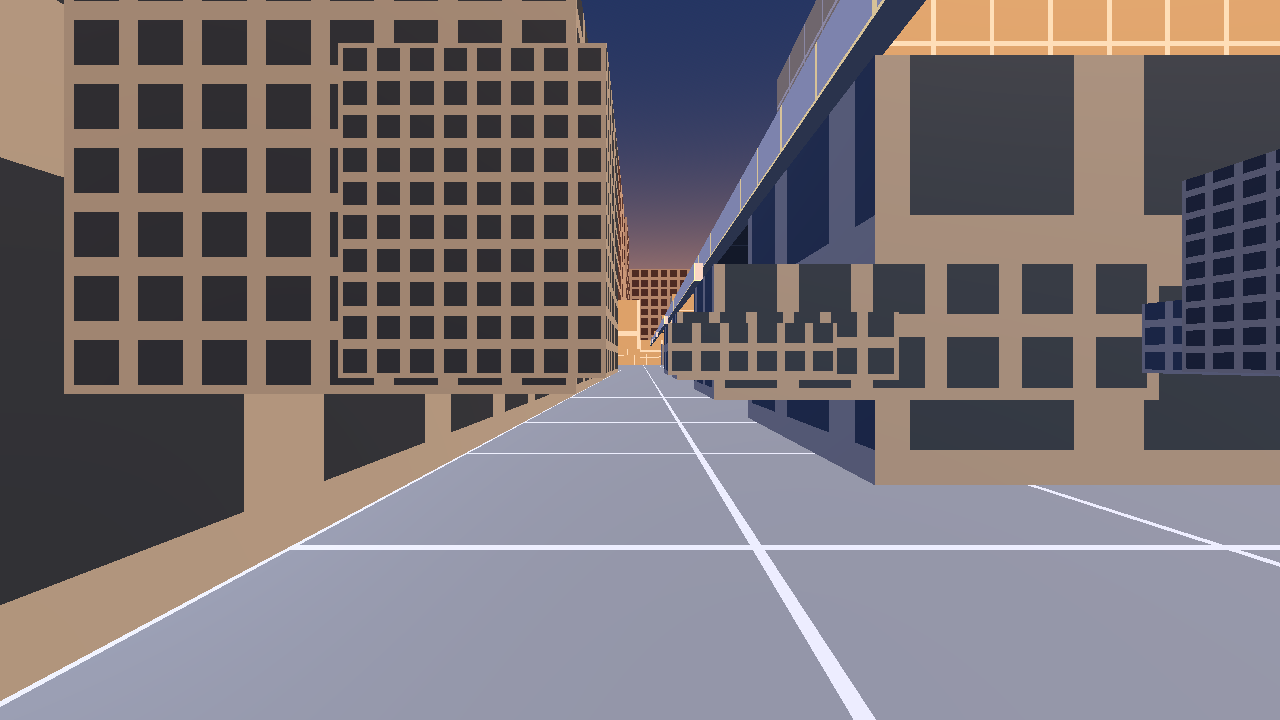
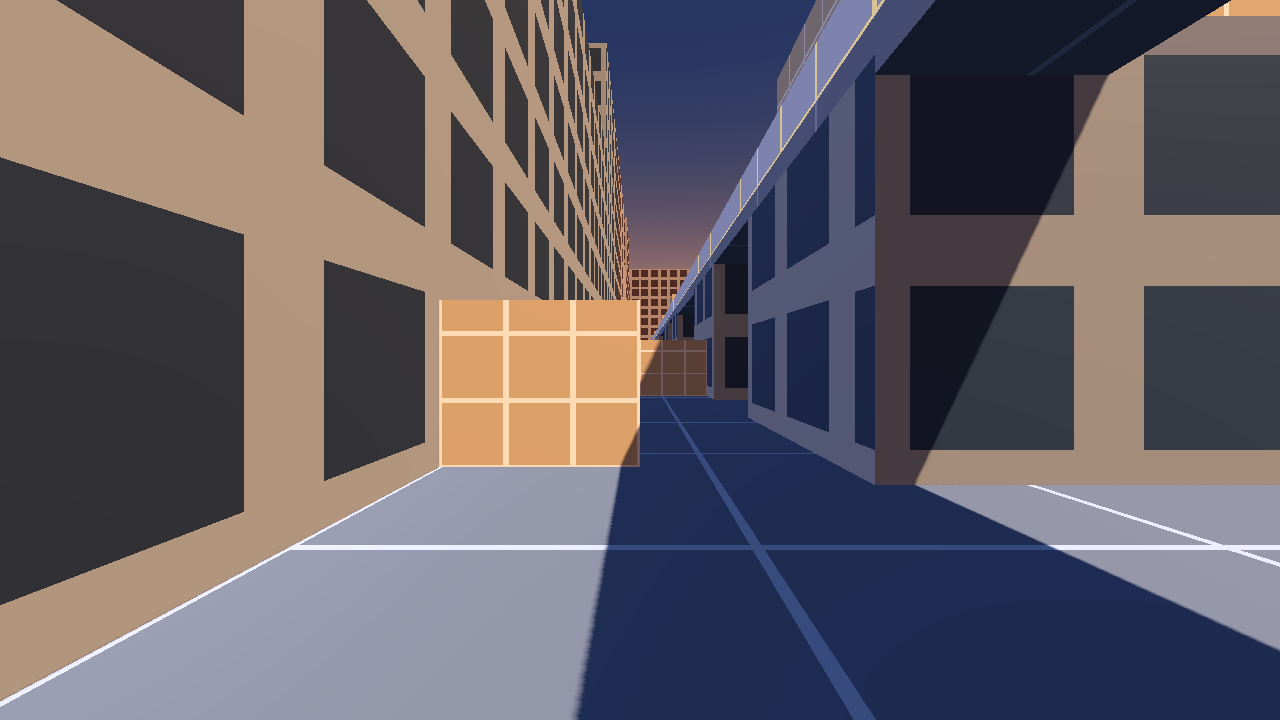
Fix map walls drawing over each other; retune movement (higher jump, double jump, longer dash, higher mantle and wall kick, Source-style air control)
The opaque map shader wrote ALPHA, forcing every map mesh into the transparent pipeline (no depth writes),
so geometry overdrew itself. Movement now uses gravity 26, jump 10, shared double-jump/dash charge,
22 m/s dash for 0.28 s, 10.5 m/s wall kick, mantle to 2.6 m, momentum ground friction and strafe-steered air.

Claude-Session: https://claude.ai/code/session_01TfbESdZ9sQJagjg1fF95CR

diff --git a/HostileTakeover/VALIDATION.md b/HostileTakeover/VALIDATION.md
@@ -35,7 +35,7 @@ Godot 4.7.2 stable, Linux, headless plus xvfb/llvmpipe renders. These are automa
 
 | Check | Result |
 |---|---|
-| Behavioral suite (`run_tests.gd`) | **94 checks passed**, zero failures (82 original + kills/deaths, kill feed, scoreboard, minimap, menu) |
+| Behavioral suite (`run_tests.gd`) | **103 checks passed**, zero failures (82 original + kills/deaths, kill feed, scoreboard, minimap, menu, new air movement, render pipeline) |
 | Map audit (`map_audit.gd`) | **26 checks passed**: bounds, no overlaps/z-fighting/wedge gaps/narrow gaps, 0.25 m grid, mirror symmetry, waypoint ground and capsule clearance, edge sweeps, flat capture discs, 4 route families to B and C, sightline budgets, spawn dogleg |
 | Walker (`map_walk.gd`) | **64 routes walked, 0 failures** (Skyrunner and Enforcer, 4 route families, both depots, all points) |
 | Bot match (`match_smoke.gd`) | PASS, 11 of 12 fighters advanced; bots spread over boulevard, trench, alleys and roofs (`bot_routes.gd`) |
@@ -47,3 +47,8 @@ alleys max 40 m; roofs max 58 m. No capture point sees a point two or more steps
 
 Not verified: human playtests, balance on the new map, and the 1080p/60 fps target on reference hardware. Software
 rendering here says nothing about real frame rates.
+
+Follow-up fixes: the map surface shader no longer writes ALPHA (it forced every map mesh into the transparent
+pipeline, so walls drew over each other; a regression check guards this), and movement was retuned (gravity 26,
+jump 10 m/s, double jump, dash 22 m/s for 0.28 s, wall kick 10.5 m/s up, mantle to about 2.6 m, Source-style
+air control and ground friction). Feel and balance of the new movement still need human playtests.

diff --git a/HostileTakeover/README.md b/HostileTakeover/README.md
@@ -12,13 +12,15 @@ For multiplayer, one player chooses **Host LAN**. Others enter the host's IP and
 |---|---|
 | WASD / mouse | Move / aim |
 | Left / right mouse | Primary / alternate fire |
-| Space | Jump; press again against a wall to kick; hold near a low ledge to mantle |
-| Shift | Air dash — **not sprint** |
+| Space | Jump; press again in the air to double jump, or against a wall to wall-kick; hold near a ledge (up to about 2.6 m) to mantle |
+| Shift | Air dash (about 6 m, shares its single charge with the double jump; restored on landing or a wall kick) — **not sprint** |
 | Ctrl | Slide while moving on ground |
 | Q / E / F | Three class abilities |
 | R | Reload |
 | V | Switch camera shoulder |
 | Escape | Class selector / resume menu |
+
+Movement is momentum-based, in the Source tradition: ground acceleration and friction take a moment, and in the air forward/back input does almost nothing. Steer air movement by strafing (A or D) while turning the view; Skyrunner's Hot Lap widens that air control. Jumps reach about 1.9 m.
 
 Sprint activates automatically after 1.25 seconds without weapon use. Shooting and alternate fire return you to combat speed. Damage and nonweapon abilities do not reset sprint. Changes of class are accepted only in your depot or while dead. Respawn takes five seconds. The match continues while the menu is open.
 
